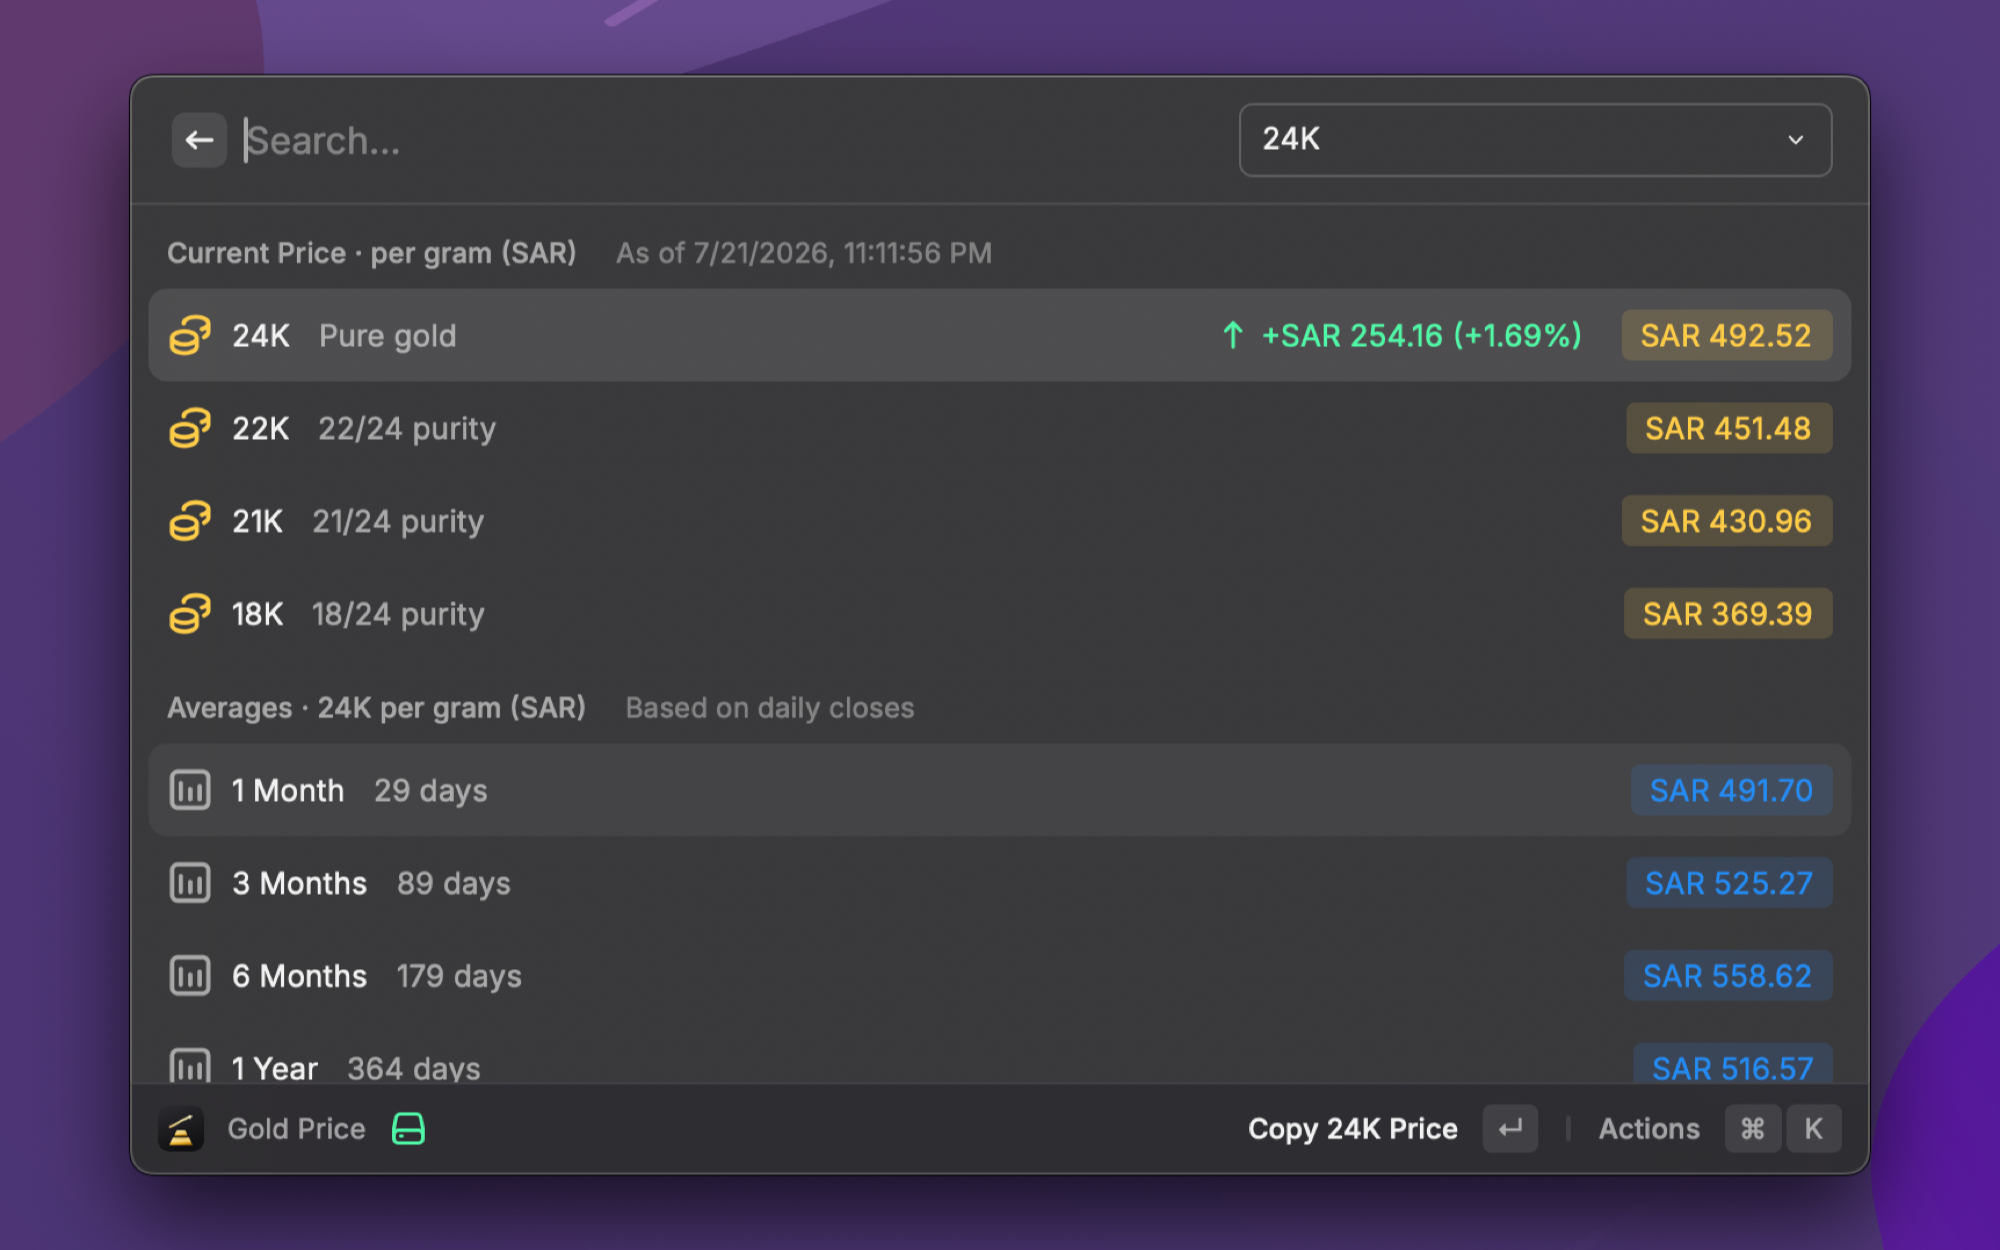
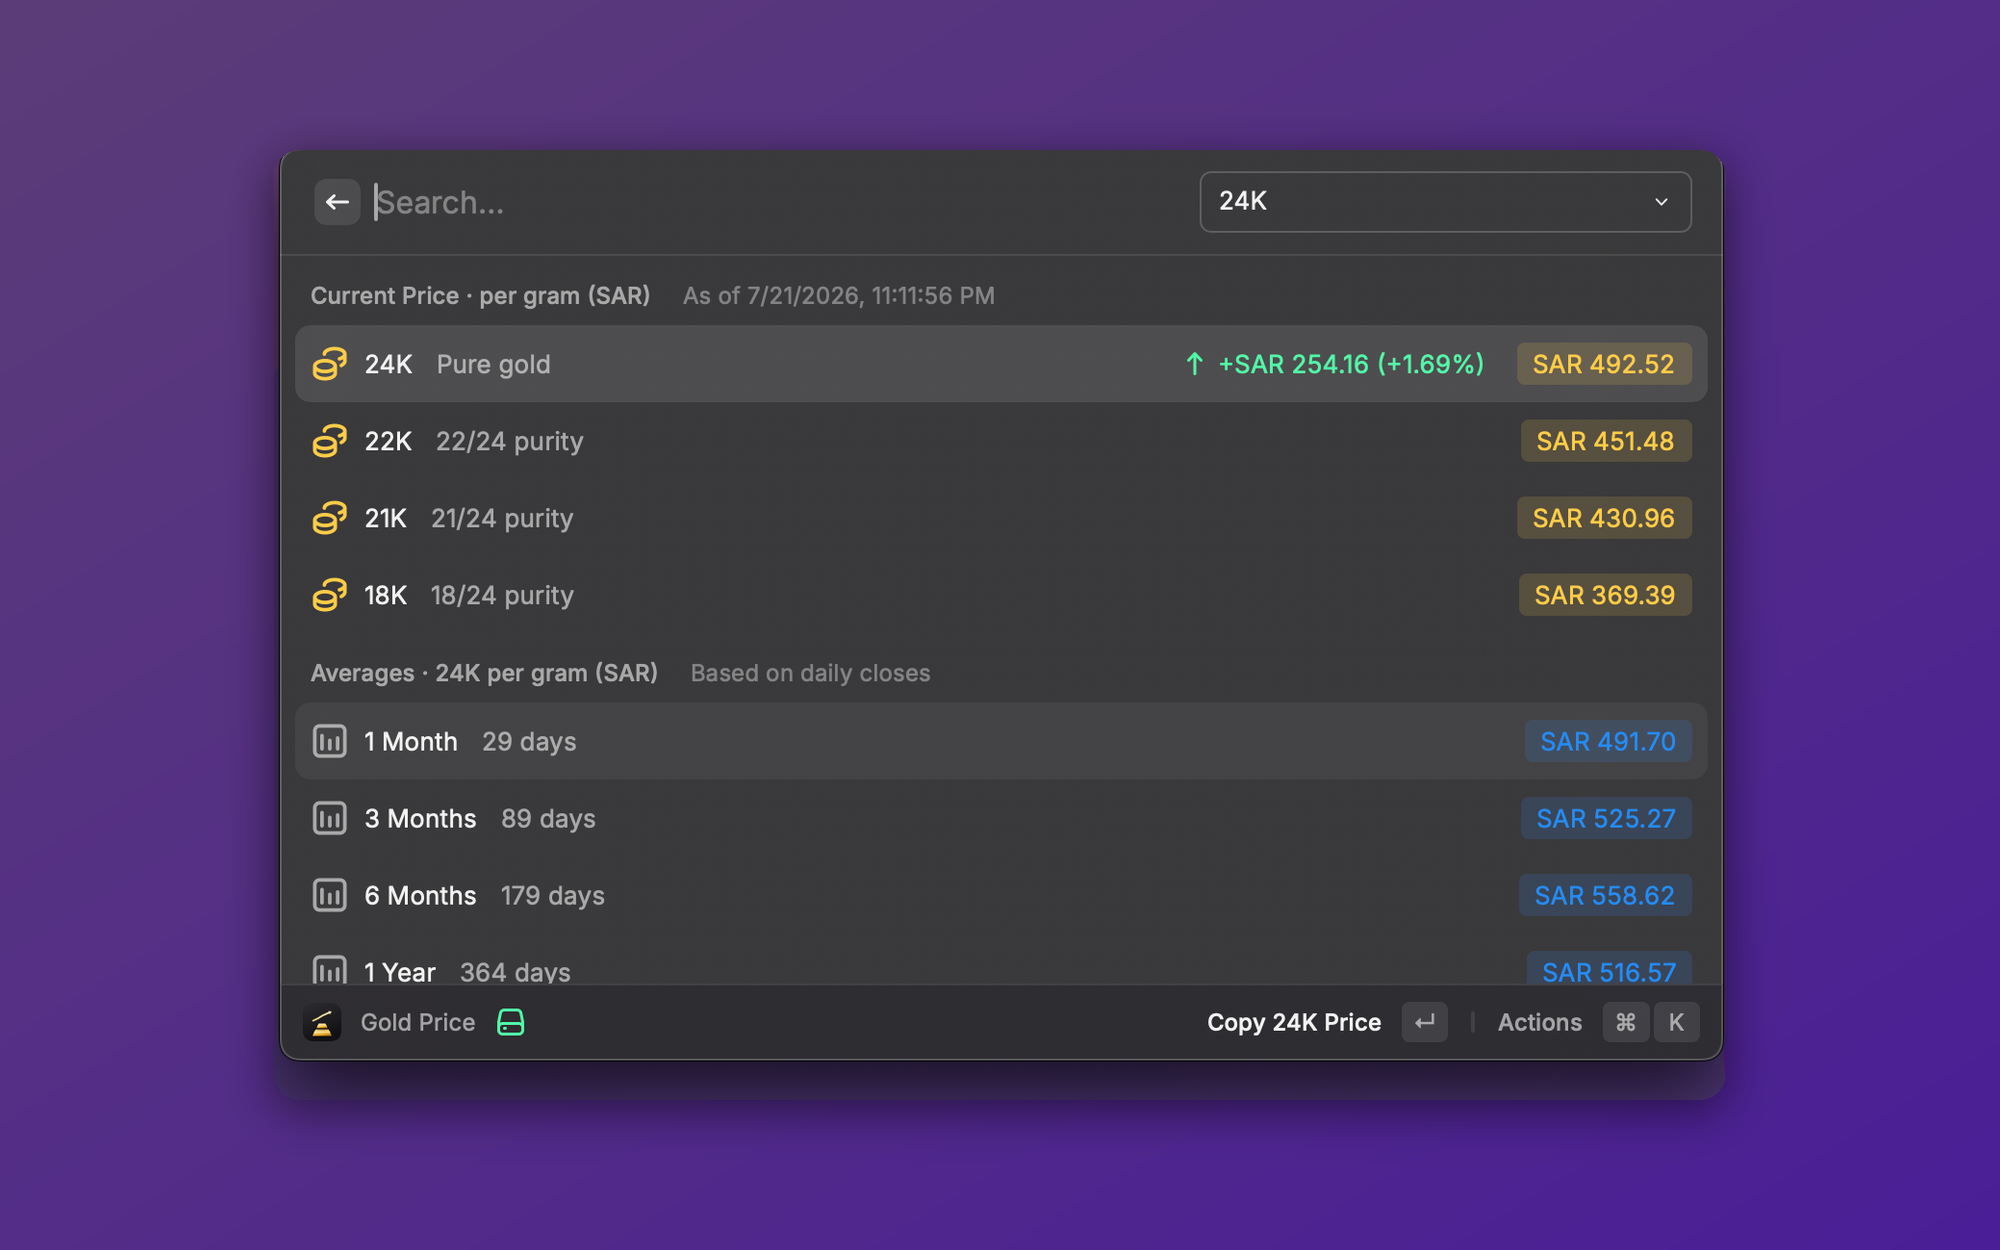
[Fix] Address Store review feedback and recompose screenshot
- Show the 24K daily change per gram, not per troy ounce (~31x overstated).
- Fall back to USD->USD rate of 1 so USD averages/change survive a missing rate.
- Make an in-app API key survive an unchanged (stale) preference via a seen-marker.
- Drop hand-written Preferences interfaces in favour of the generated type.
- Recompose the price-list screenshot to 2000x1250 with ~12% padding; remove the
  top-heavy API-key form shot that fails the Store content-centering check.

diff --git a/src/lib/apiKey.ts b/src/lib/apiKey.ts
@@ -9,31 +9,41 @@
  * mirror the key there and treat it as the source of truth when the preference
  * is empty. There is no API to write back into a preference, so LocalStorage is
  * the durable store once the preference is lost.
+ *
+ * A newer key entered via the in-app form must not be silently reverted by a
+ * stale preference. To reconcile, we remember the last preference value we acted
+ * on (`PREF_SEEN_KEY`): the preference only wins when it has actually *changed*
+ * since then; otherwise the active stored key (which the form may have updated)
+ * is authoritative.
  */
 
 import { LocalStorage, getPreferenceValues } from "@raycast/api";
 
+/** The active API key (may be set by the preference or the in-app form). */
 const STORAGE_KEY = "metals-dev-api-key";
-
-interface Preferences {
-  apiKey?: string;
-}
+/** The last preference value we reconciled, used to detect preference changes. */
+const PREF_SEEN_KEY = "metals-dev-api-key-pref-seen";
 
 /**
- * Resolve the API key, preferring a non-empty preference (which is mirrored into
- * LocalStorage as a backup) and otherwise falling back to the stored copy.
- * Returns `null` when no key is available anywhere (first run, or the preference
- * was lost before it could be backed up).
+ * Resolve the API key. A non-empty preference wins only when it differs from the
+ * last one we saw (a genuine user change); otherwise the stored active key wins,
+ * so a key entered via the in-app form persists across launches instead of being
+ * overwritten by an unchanged preference. Returns `null` when no key exists
+ * anywhere (first run, or the preference was lost before it could be backed up).
  */
 export async function resolveApiKey(): Promise<string | null> {
   const pref = getPreferenceValues<Preferences>().apiKey?.trim();
   if (pref) {
-    // Back it up before Raycast can drop it; only write on change to avoid churn.
-    const backup = await LocalStorage.getItem<string>(STORAGE_KEY);
-    if (backup !== pref) {
+    const seen = (await LocalStorage.getItem<string>(PREF_SEEN_KEY))?.trim();
+    if (pref !== seen) {
+      // Preference is new or was changed by the user: it wins and becomes active.
       await LocalStorage.setItem(STORAGE_KEY, pref);
+      await LocalStorage.setItem(PREF_SEEN_KEY, pref);
+      return pref;
     }
-    return pref;
+    // Preference unchanged; an in-app form entry may hold a newer active key.
+    const active = (await LocalStorage.getItem<string>(STORAGE_KEY))?.trim();
+    return active || pref;
   }
   const stored = (await LocalStorage.getItem<string>(STORAGE_KEY))?.trim();
   return stored || null;

diff --git a/src/gold-price.tsx b/src/gold-price.tsx
@@ -16,10 +16,6 @@ import { resolveApiKey, saveApiKey } from "./lib/apiKey";
 import { KARATS, Karat, pricePerGramForKarat } from "./lib/gold";
 import { DEFAULT_CURRENCY, formatCurrency } from "./lib/currency";
 
-interface Preferences {
-  currency?: string;
-}
-
 const WINDOW_LABEL: Record<number, string> = {
   30: "1 Month",
   90: "3 Months",
@@ -69,10 +65,16 @@ function GoldPriceList({ apiKey, onEditKey }: { apiKey: string; onEditKey: () =>
     revalidate();
   };
 
+  // The change is shown beside the 24K per-gram row, so compute it per gram (24K)
+  // — not per troy ounce, which would overstate the daily move ~31x.
   const change =
-    data && data.previousClosePerTroyOunce ? data.latestPerTroyOunce - data.previousClosePerTroyOunce : null;
+    data && data.previousClosePerTroyOunce
+      ? pricePerGramForKarat(data.latestPerTroyOunce, 24) - pricePerGramForKarat(data.previousClosePerTroyOunce, 24)
+      : null;
   const changePct =
-    change !== null && data?.previousClosePerTroyOunce ? (change / data.previousClosePerTroyOunce) * 100 : null;
+    change !== null && data?.previousClosePerTroyOunce
+      ? (change / pricePerGramForKarat(data.previousClosePerTroyOunce, 24)) * 100
+      : null;
   const changeIcon = change === null ? undefined : change >= 0 ? Icon.ArrowUp : Icon.ArrowDown;
   const changeColor = change === null ? undefined : change >= 0 ? Color.Green : Color.Red;
 

diff --git a/src/lib/api.ts b/src/lib/api.ts
@@ -91,10 +91,10 @@ async function request<T>(path: string, apiKey: string, params: Record<string, s
  * USD->currency rate (from `currencies.USD` in the response, e.g. 3.75 for SAR),
  * which callers reuse to convert the USD-only historical series.
  *
- * `usdToLocalRate` is `null` when the response omits a usable rate: the SAR peg
- * is a valid fallback only for SAR, so for any other currency a missing rate
- * means we cannot convert history and callers must degrade (show no averages)
- * rather than convert at a wrong rate.
+ * `usdToLocalRate` is `null` when the response omits a usable rate and we have no
+ * safe fallback: USD needs no conversion (rate 1), and SAR has its hard peg; for
+ * any other currency a missing rate means we cannot convert history and callers
+ * must degrade (show no averages) rather than convert at a wrong rate.
  */
 export async function fetchLatestGold(
   apiKey: string,
@@ -110,7 +110,8 @@ export async function fetchLatestGold(
   }
   const usdRate = data.currencies?.USD;
   const liveRate = typeof usdRate === "number" && usdRate > 0 ? usdRate : null;
-  const usdToLocalRate = liveRate ?? (currency === "SAR" ? SAR_PER_USD_PEG : null);
+  // USD history needs no conversion (rate 1); SAR falls back to its hard peg.
+  const usdToLocalRate = liveRate ?? (currency === "USD" ? 1 : currency === "SAR" ? SAR_PER_USD_PEG : null);
   return { pricePerTroyOunce: gold, usdToLocalRate, timestamp: data.timestamp };
 }
 

diff --git a/CLAUDE.md b/CLAUDE.md
@@ -36,15 +36,15 @@ The `apiKey` preference is a **`password` type**, which Raycast stores in the ma
 
 So the preference is `required: false` and the key is resolved through `lib/apiKey.ts`:
 
-- **Preference wins**: a non-empty `apiKey` preference is used and **mirrored into LocalStorage** (`metals-dev-api-key`) as a backup — written before it can vanish.
-- **LocalStorage is the fallback / durable store**: if the preference is empty (first run, or lost), the stored copy is used. There is **no API to write back into a preference**, so once the preference is lost, LocalStorage is the source of truth.
-- **In-app form**: with `required: false`, Raycast won't force the prompt, so `gold-price.tsx` shows `ApiKeyForm` when `resolveApiKey()` returns `null`; submitting persists via `saveApiKey` to LocalStorage. LocalStorage is a local **encrypted** DB scoped to the extension.
+- **Preference wins _only when it changed_**: a non-empty `apiKey` preference becomes the active key **only if it differs from the last value we reconciled**, tracked in LocalStorage under `metals-dev-api-key-pref-seen`. On a change it's written to the active key (`metals-dev-api-key`) and to the seen-marker. This keeps preference edits authoritative **without** letting an _unchanged_ (possibly stale) preference clobber a newer key the user entered via the in-app form.
+- **LocalStorage is the fallback / durable store**: if the preference is empty (first run, or lost), or unchanged since last seen, the stored active key is used. There is **no API to write back into a preference**, so once the preference is lost, LocalStorage is the source of truth. Returns `null` only when no key exists anywhere.
+- **In-app form**: with `required: false`, Raycast won't force the prompt, so `gold-price.tsx` shows `ApiKeyForm` when `resolveApiKey()` returns `null`; submitting persists via `saveApiKey` to LocalStorage, and because the preference is unchanged that form key now survives future launches. LocalStorage is a local **encrypted** DB scoped to the extension.
 
 ## Currency: history is USD-canonical
 
 `/v1/timeseries` returns gold in **USD/toz only** and its `currencies` map does NOT include most fiat currencies (live-verified). So history is stored in USD (`lib/history.ts`) and converted to the display currency at the boundary (`lib/data.ts`) using the USD→currency rate from `/latest` (`currencies.USD`, e.g. ≈ 3.75 for SAR). `/latest?currency=<selected>` gives `metals.gold` directly in the display currency. Symbols are currency-neutral (`pricePerTroyOunce`, `usdToLocalRate`, `averagePerTroyOunce`).
 
-**Rate fallback is SAR-only.** `fetchLatestGold` returns `usdToLocalRate: number | null`; the `SAR_PER_USD_PEG = 3.75` fallback (`lib/api.ts`) applies **only when `currency === "SAR"`**. For any other currency a missing live rate yields `null`, and `data.ts` then degrades gracefully — the live spot price still shows (it's already in the display currency), but averages and the day's change become `null` ("—") rather than being converted at a wrong rate. In practice `/latest` always returns `currencies.USD`, so this is defensive.
+**Rate fallback covers USD and SAR.** `fetchLatestGold` returns `usdToLocalRate: number | null`; when `currencies.USD` is missing it falls back to **`1` for USD** (history is already USD-canonical, so no conversion) and to **`SAR_PER_USD_PEG = 3.75` for SAR** (`lib/api.ts`). For any other currency a missing live rate yields `null`, and `data.ts` then degrades gracefully — the live spot price still shows (it's already in the display currency), but averages and the day's change become `null` ("—") rather than being converted at a wrong rate. In practice `/latest` always returns `currencies.USD`, so this is defensive.
 
 **Latest cache is keyed per currency** (`gold-latest-<currency>`) because price + rate are currency-specific; switching currency is a deliberate cache miss (one `/latest` request, then 12h TTL). History is USD-canonical and **shared across currencies** — switching currency never refetches history.
 
@@ -62,6 +62,17 @@ So the preference is `required: false` and the key is resolved through `lib/apiK
 
 ## Publishing checklist
 
-- Set `author` in `package.json` to the real Raycast handle (ESLint validates it against raycast.com — a placeholder fails lint).
-- Add `metadata/` screenshots (2000×1250) before submitting; the CHANGELOG uses the `{PR_MERGE_DATE}` placeholder.
-- `npm run build && npm run lint` must both pass, then `npm run publish`.
+- Set `author` in `package.json` to the real Raycast handle (ESLint validates it against raycast.com — a placeholder fails lint). Ours: `noice_anas` (GitHub `Noice-Anas`).
+- Add `metadata/` screenshots (**exactly 2000×1250, PNG, <2 MB, 1–6 shots**) before submitting; the CHANGELOG uses the `{PR_MERGE_DATE}` placeholder. The PR's Greptile check also enforces **padding**: the Raycast window must sit **centered with ~12% margin all sides (8–17% range), top/bottom symmetric within 4%** — and it measures the *content* bounding box, so **views whose content is top-heavy (e.g. the API-key form) fail** and shouldn't be used. Best: Raycast's ⌘K "Take Screenshot" action (produces compliant shots natively). Fallback for a macOS window capture: recompose with Pillow — crop the window panel, re-center on a 2000×1250 purple gradient at 12% padding, rounded corners + soft shadow (see `scratchpad/compose.py` from the July 2026 session). `sips` alone can't do this (no compositing); a full-bleed crop leaves ~6% padding and fails.
+- `npm run build && npm run lint` must both pass first.
+
+### Publishing route: manual fork + PR (NOT `npm run publish`)
+
+`npm run publish` (`ray publish`) authorizes the **Raycast CLI** via GitHub OAuth requesting the classic **`repo`** scope — all-or-nothing read/write to **all** public *and private* repos. We avoid granting that. Instead we publish manually with our own `gh` credentials, so the Raycast CLI gets zero account access:
+
+1. `gh repo fork raycast/extensions --clone=false` (upstream default branch is `main`).
+2. Sparse, blobless, shallow clone of the fork (the monorepo is huge): `git clone --depth 1 --filter=blob:none --sparse https://github.com/Noice-Anas/extensions.git`, then `git sparse-checkout set extensions/gold-price`. Use `gh auth setup-git` + HTTPS if SSH keys aren't loaded in the shell.
+3. New branch; copy the extension into `extensions/gold-price/` — the file set = `git ls-files` from this repo **minus `CLAUDE.md`** (internal dev doc, don't ship). `git archive HEAD | tar -x -C .../extensions/gold-price/` is the clean way. `package-lock.json` **is** included (matches how existing monorepo extensions are laid out).
+4. Commit, push to the fork, `gh pr create --repo raycast/extensions --base main --head Noice-Anas:gold-price`.
+
+First submission: **PR [#29634](https://github.com/raycast/extensions/pull/29634)** (opened 2026-07-21). CI checks to watch: `metadata-images` (validates screenshot dims), build/lint, `PR Bot`, Socket Security, Greptile Review. To fix review feedback, push more commits to the `gold-price` branch — the PR updates automatically.

diff --git a/README.md b/README.md
@@ -8,8 +8,6 @@ See the daily gold price **per gram** for the karats commonly quoted in Gulf gol
 
 ![Gold price per gram with 1/3/6/12-month averages](metadata/gold-price-1.png)
 
-![First-run API key setup](metadata/gold-price-2.png)
-
 ## Features
 
 - **Live spot price** per gram for 24K / 22K / 21K / 18K.